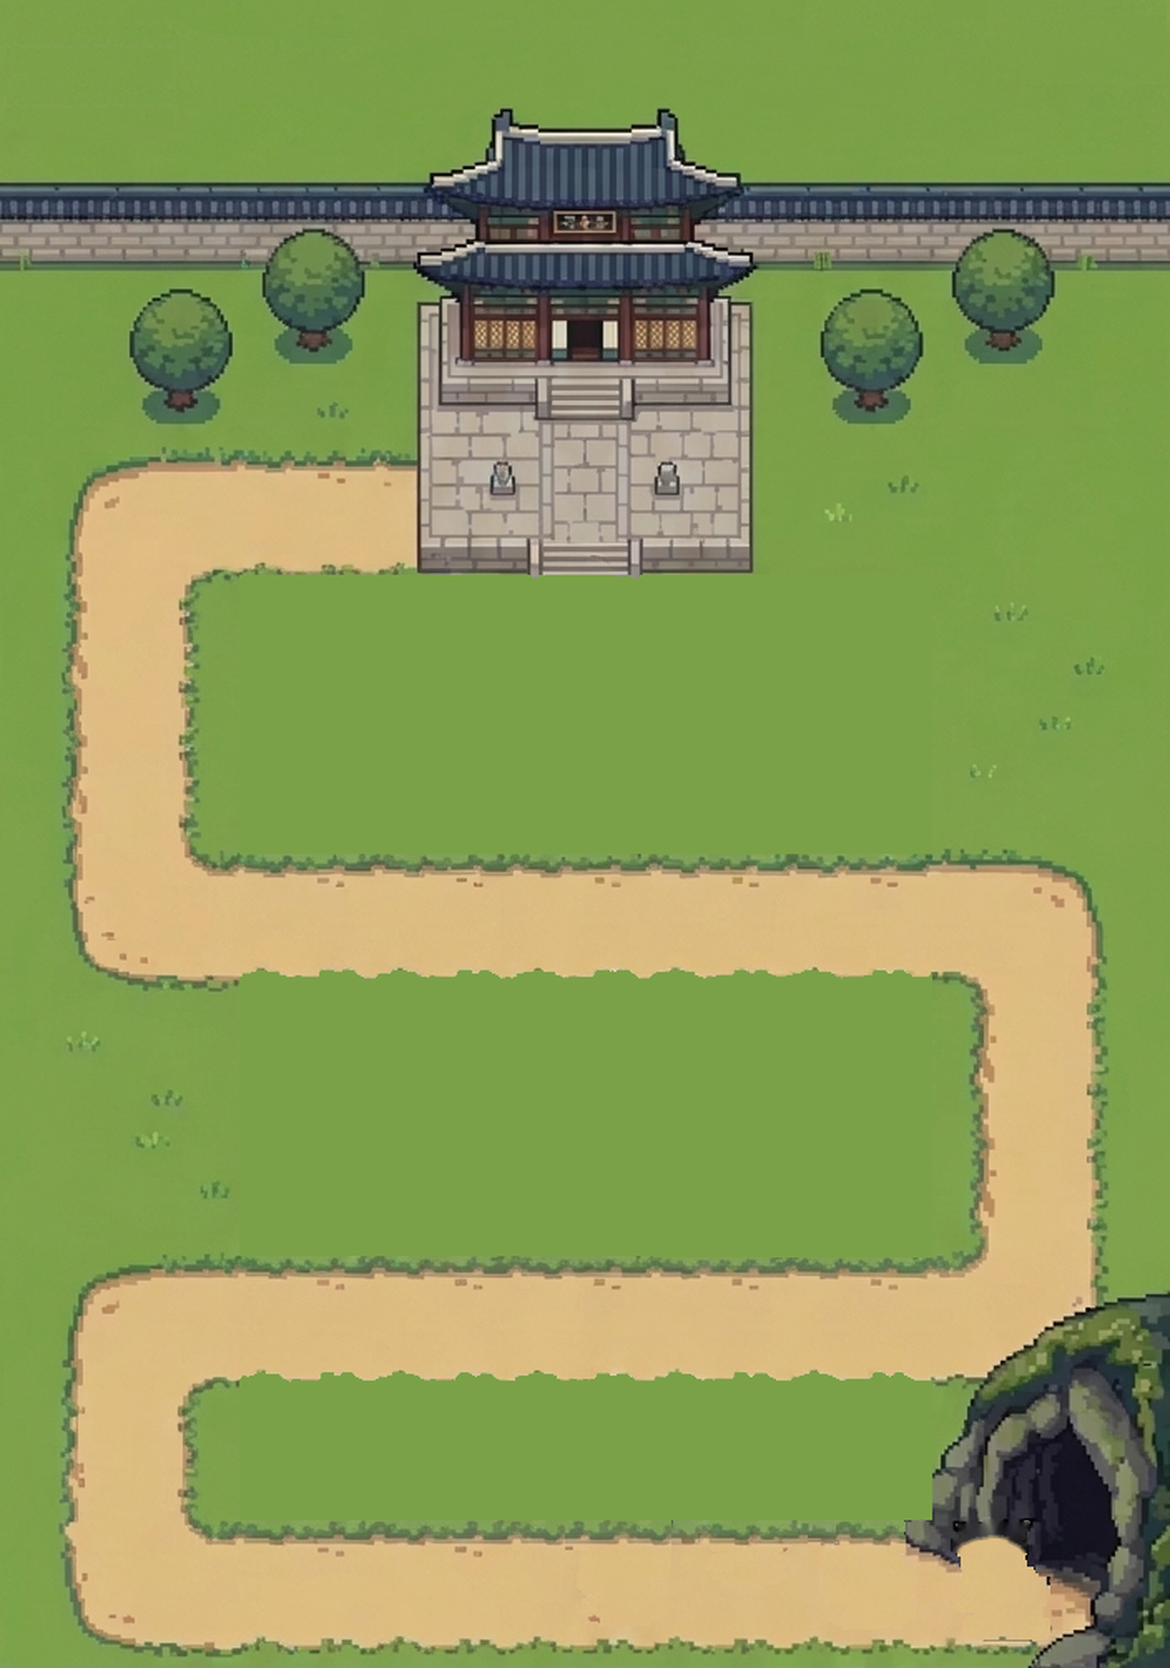
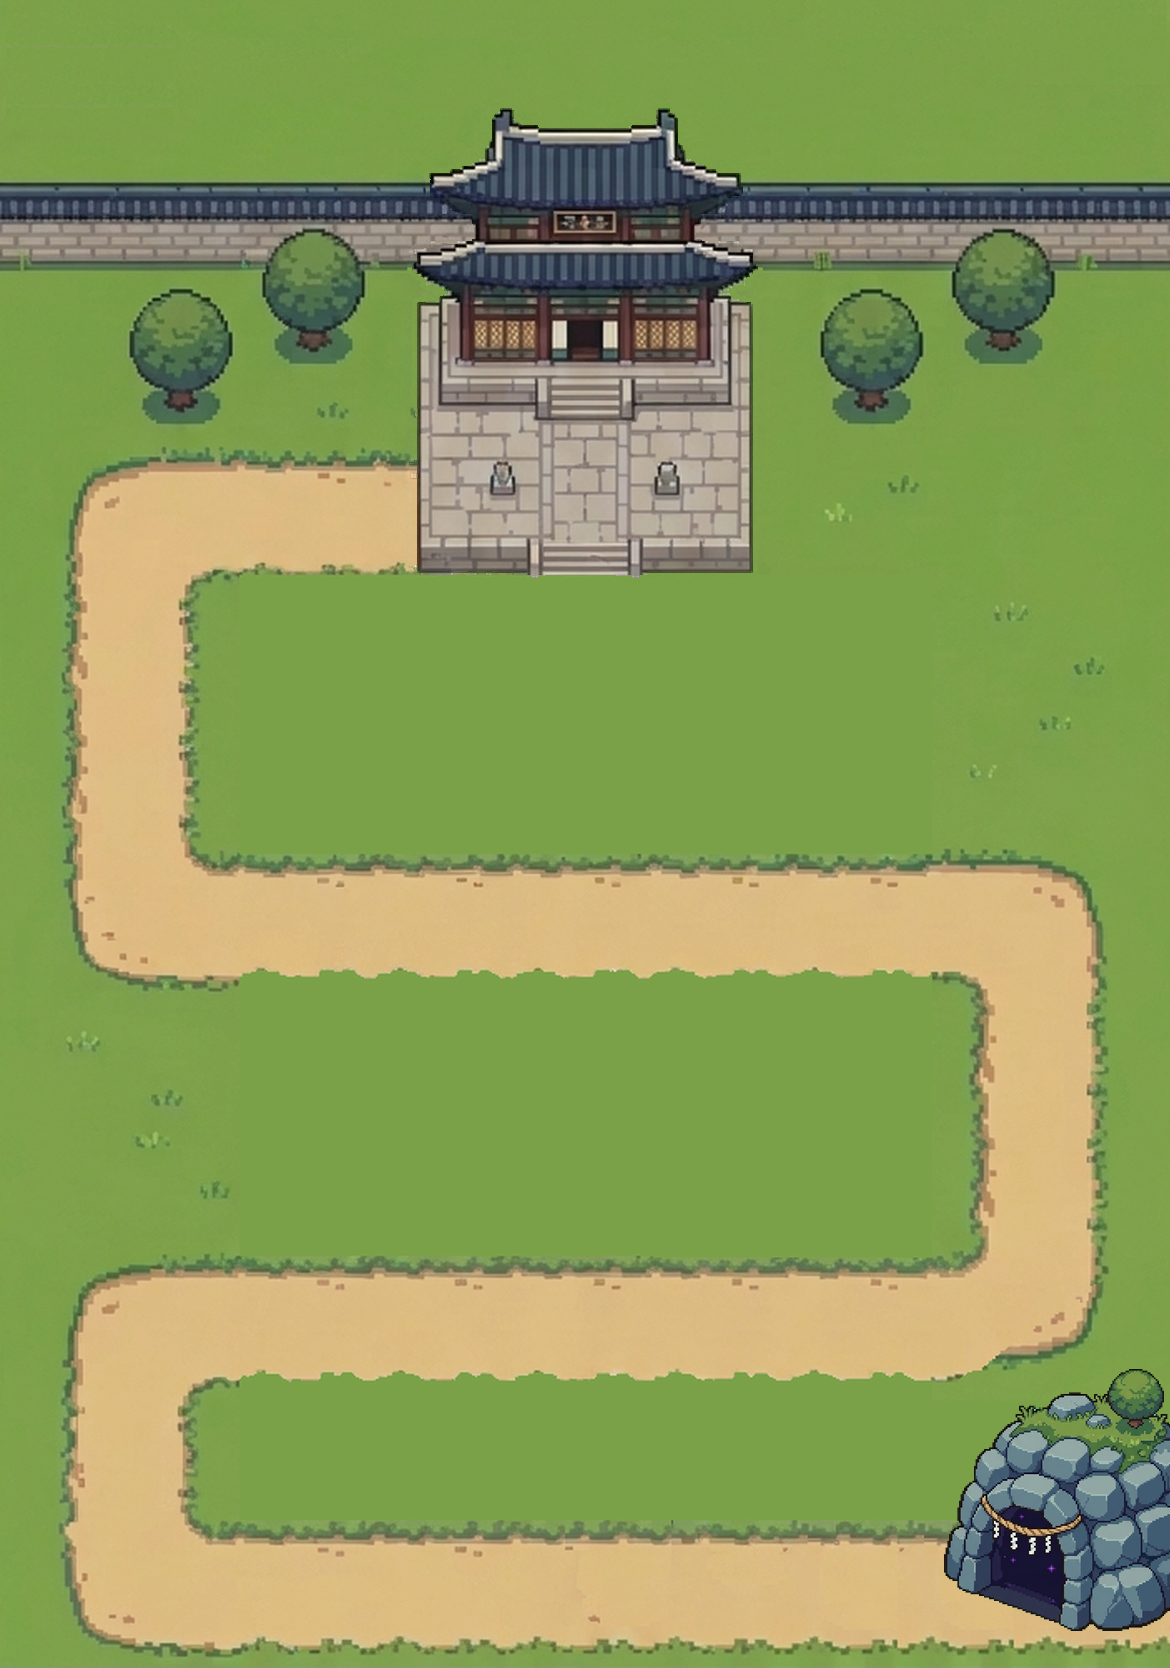
art: 도트 동굴을 세로 맵에 넣기 (정지 + 입구 반짝임 4프레임)
Claude-Session: https://claude.ai/code/session_01516Ff1ezD39vnqGwiHhyKB

Changed region(s): [[0.7692, 0.7482, 1.0, 1.0]]

diff --git a/art/tools/map/build_portrait_cave.py b/art/tools/map/build_portrait_cave.py
@@ -1,0 +1,174 @@
+"""도트 동굴 → 세로 맵에 넣기.
+
+입력: art/source/gemini/map-portrait/cave-pixel.png (제미나이, 하늘색 #00FFFF 배경, 1도트 = 4px)
+      assets/images/map/map-portrait-ground.png|webp, map-portrait-palace.*  (build_portrait_bg.py 결과)
+출력: assets/images/map/map-portrait-cave.png        동굴 정지 그림 (투명, @2x)
+      assets/images/map/map-portrait-cave-glow.png   입구 반짝임 4프레임 시트 + .json (TexturePacker Hash + anchor)
+      assets/images/map/map-portrait-bg.png          바닥 + 도트 동굴 + 궁을 다시 합친 맵
+      assets/data/map-portrait.json                  cave 항목(rect·foot·mouth) 갱신
+      art/preview/map-portrait/cave-*.png|gif       확인용
+build_portrait_bg.py 가 끝에서 이 스크립트를 부른다 (따로 실행해도 됨).
+"""
+import json
+import os
+
+import numpy as np
+from PIL import Image
+
+ROOT = os.path.abspath(os.path.join(os.path.dirname(__file__), '..', '..', '..'))
+SRC = os.path.join(ROOT, 'art/source/gemini/map-portrait/cave-pixel.png')
+IMG = os.path.join(ROOT, 'assets/images/map')
+DATA = os.path.join(ROOT, 'assets/data/map-portrait.json')
+PREV = os.path.join(ROOT, 'art/preview/map-portrait')
+
+DOT, SX, SY = 4, 0, 1          # 제미나이 그림의 도트 크기와 격자 시작점
+WIDTH_BOARD = 140              # 동굴 폭 (보드 좌표). 궁은 약 175
+MOUTH_X_BOARD = 512            # 입구 가운데 x
+MOUTH_FLOOR_BOARD = 812        # 입구 바닥 y (아래 길 띠 762~824 안쪽 아래)
+FRAMES, FRAME_MS = 4, 180
+
+
+def load_dots():
+    a = np.asarray(Image.open(SRC).convert('RGB')).astype(int)
+    h, w = a.shape[:2]
+    ny, nx = (h - SY) // DOT, (w - SX) // DOT
+    c = a[SY:SY + ny * DOT, SX:SX + nx * DOT].reshape(ny, DOT, nx, DOT, 3)
+    dots = np.median(c[:, 1:3, :, 1:3].transpose(0, 2, 1, 3, 4).reshape(ny, nx, 4, 3), axis=2).astype(np.uint8)
+    r, g, b = [dots[..., i].astype(int) for i in range(3)]
+    bg = (g > 225) & (b > 225) & (r < 110)   # 하늘색 배경 (바위 밝은 면과 겹치지 않게 좁게)
+    # 가장 큰 덩어리만 (오른쪽 아래 제미나이 표시 등 제거)
+    from scipy import ndimage
+    lab, n = ndimage.label(~bg)
+    sizes = ndimage.sum(np.ones_like(lab), lab, range(1, n + 1))
+    keep = lab == (1 + int(np.argmax(sizes)))
+    keep = ndimage.binary_fill_holes(keep)
+    # 가장자리에 남은 하늘색 섞인 도트 벗기기
+    for _ in range(2):
+        edge = keep & ~ndimage.binary_erosion(keep)
+        cyan = edge & (b > r + 70) & (g > r + 70) & (g > 140)
+        keep &= ~cyan
+    ys, xs = np.where(keep)
+    y0, y1, x0, x1 = ys.min(), ys.max() + 1, xs.min(), xs.max() + 1
+    return dots[y0:y1, x0:x1], keep[y0:y1, x0:x1]
+
+
+def find_mouth(dots, keep):
+    """입구(어두운 남보라 영역)의 바닥 가운데와 반짝이 위치."""
+    d = dots.astype(int)
+    lum = d.mean(2)
+    dark = keep & (lum < 60)
+    from scipy import ndimage
+    lab, n = ndimage.label(dark)
+    sizes = ndimage.sum(np.ones_like(lab), lab, range(1, n + 1))
+    mouth = lab == (1 + int(np.argmax(sizes)))
+    r, g, b = d[..., 0], d[..., 1], d[..., 2]
+    spark = keep & (b > 120) & (r > 90) & (g < 110) & (b > g + 50)
+    # 입구 안(입구를 조금 넓힌 상자 안)에 있는 것만
+    ys, xs = np.where(mouth)
+    box = (ys.min(), ys.max(), xs.min(), xs.max())
+    sy, sx = np.where(spark)
+    inside = (sy >= box[0]) & (sy <= box[1]) & (sx >= box[2]) & (sx <= box[3])
+    spark_pts = list(zip(sy[inside], sx[inside]))
+    mouth_fill = np.median(d[mouth & ~spark], axis=0).astype(np.uint8)
+    floor_y = ys.max() + 1
+    cx = (xs.min() + xs.max() + 1) / 2
+    return mouth, spark_pts, mouth_fill, (cx, floor_y), box
+
+
+def frame_dots(dots, spark_pts, fill, t):
+    """t번째 프레임: 반짝이마다 위상을 달리해 켜짐·반·꺼짐."""
+    out = dots.copy()
+    levels = [1.0, 0.55, 0.0, 0.55]
+    # 서로 붙은 반짝이 픽셀은 같은 위상
+    groups = {}
+    for (y, x) in spark_pts:
+        key = (y // 3, x // 3)
+        groups.setdefault(key, []).append((y, x))
+    for i, (_, pts) in enumerate(sorted(groups.items())):
+        k = levels[(t + i * 3) % len(levels)]
+        for (y, x) in pts:
+            out[y, x] = (dots[y, x] * k + fill * (1 - k)).astype(np.uint8)
+    return out
+
+
+def to_rgba(dots, keep, scale_px):
+    """도트 → @2x 픽셀 (부드럽게 줄임, 가장자리 배경색 번짐 없게)."""
+    rgb = dots.copy()
+    rgb[~keep] = (42, 33, 28)   # 외곽선 색으로 채워 두고 줄임
+    h, w = keep.shape
+    W = round(w * scale_px); H = round(h * scale_px)
+    big = Image.fromarray(rgb).resize((w * 8, h * 8), Image.NEAREST).resize((W, H), Image.LANCZOS)
+    al = Image.fromarray((keep * 255).astype(np.uint8)).resize((w * 8, h * 8), Image.NEAREST).resize((W, H), Image.BOX)
+    im = big.convert('RGBA')
+    im.putalpha(al)
+    return im
+
+
+def main():
+    dots, keep = load_dots()
+    mouth, spark_pts, fill, (mcx, mfloor), box = find_mouth(dots, keep)
+    h, w = keep.shape
+    px = WIDTH_BOARD * 2 / w                 # @2x 픽셀 / 도트
+    # 정지 그림
+    still = to_rgba(dots, keep, px)
+    still.save(os.path.join(IMG, 'map-portrait-cave.png'))
+    # 보드 위 위치: 입구 바닥 가운데를 (MOUTH_X, MOUTH_FLOOR)에
+    left = MOUTH_X_BOARD - mcx * px / 2
+    top = MOUTH_FLOOR_BOARD - mfloor * px / 2
+    W2, H2 = still.size
+    # 반짝임 시트
+    frames = [to_rgba(frame_dots(dots, spark_pts, fill, t), keep, px) for t in range(FRAMES)]
+    sheet = Image.new('RGBA', (W2 * FRAMES, H2))
+    meta_frames = {}
+    foot = (round(mcx * px / W2, 4), round(mfloor * px / H2, 4))
+    for t, f in enumerate(frames):
+        sheet.paste(f, (t * W2, 0))
+        meta_frames[f'map-portrait-cave-glow-{t}'] = {
+            'frame': {'x': t * W2, 'y': 0, 'w': W2, 'h': H2}, 'duration': FRAME_MS,
+            'anchor': {'x': foot[0], 'y': foot[1]}}
+    sheet.save(os.path.join(IMG, 'map-portrait-cave-glow.png'))
+    with open(os.path.join(IMG, 'map-portrait-cave-glow.json'), 'w', encoding='utf-8') as f:
+        json.dump({'frames': meta_frames, 'meta': {'image': 'map-portrait-cave-glow.png', 'size': {'w': W2 * FRAMES, 'h': H2},
+                   'scale': '2', 'note': 'anchor = 입구 바닥 가운데. 보드 좌표 cave.mouth 에 그린다.'}}, f, ensure_ascii=False, indent=1)
+
+    # 맵 다시 합치기: 바닥 → 동굴 → 궁
+    def open_any(name):
+        for ext in ('png', 'webp'):
+            p = os.path.join(IMG, f'{name}.{ext}')
+            if os.path.exists(p): return Image.open(p).convert('RGBA')
+    ground = open_any('map-portrait-ground')
+    palace = open_any('map-portrait-palace')
+    with open(DATA, encoding='utf-8') as f:
+        data = json.load(f)
+    pr = data['palace']['rect']
+    bg = ground.copy()
+    bg.alpha_composite(still, (round(left * 2), round(top * 2)))
+    bg.alpha_composite(palace, (round(pr['x'] * 2), round(pr['y'] * 2)))
+    bg.convert('RGB').save(os.path.join(IMG, 'map-portrait-bg.png'))
+
+    data['cave'] = {
+        'image': 'map/map-portrait-cave.webp', 'glow': 'map/map-portrait-cave-glow.json',
+        'rect': {'x': round(left, 1), 'y': round(top, 1), 'w': round(W2 / 2, 1), 'h': round(H2 / 2, 1)},
+        'mouth': [MOUTH_X_BOARD, MOUTH_FLOOR_BOARD],
+        'mouth_width': round((box[3] - box[2] + 1) * px / 2, 1),
+        'note': '도트 동굴(cave-pixel.png). 오른쪽 일부는 화면 밖. 몬스터 출발점을 mouth 근처로 옮기면 입구에서 나오는 것처럼 보인다.'}
+    with open(DATA, 'w', encoding='utf-8') as f:
+        json.dump(data, f, ensure_ascii=False, indent=1)
+
+    # 확인용
+    os.makedirs(PREV, exist_ok=True)
+    bg.convert('RGB').save(os.path.join(PREV, 'bg.png'))
+    still.save(os.path.join(PREV, 'cave.png'))
+    z = 3
+    crop = (round(left * 2) - 60, round(top * 2) - 60, 1170, 1668)
+    gif = []
+    for f in frames:
+        b = ground.copy(); b.alpha_composite(f, (round(left * 2), round(top * 2)))
+        c = b.crop(crop)
+        gif.append(c.resize((c.width * z // 2, c.height * z // 2), Image.NEAREST).convert('P', palette=Image.ADAPTIVE))
+    gif[0].save(os.path.join(PREV, 'cave-glow.gif'), save_all=True, append_images=gif[1:], duration=FRAME_MS, loop=0)
+    print('cave', still.size, 'rect', data['cave']['rect'], 'mouth w', data['cave']['mouth_width'], 'sparks', len(spark_pts))
+
+
+if __name__ == '__main__':
+    main()

diff --git a/art/tools/map/build_portrait_bg.py b/art/tools/map/build_portrait_bg.py
@@ -5,7 +5,8 @@
   assets/images/map/map-portrait-bg.png        정보줄·배치 칸을 지운 맵 (궁·동굴·나무 포함)
   assets/images/map/map-portrait-ground.png    궁·동굴까지 뺀 바닥 (궁 자리 성벽·길, 동굴 자리 길을 이어 그림)
   assets/images/map/map-portrait-palace.png    궁만 (투명, 맵과 같은 캔버스에서 잘라 낸 최소 영역)
-  assets/images/map/map-portrait-cave.png      동굴만 (투명)
+  assets/images/map/map-portrait-cave.png      동굴만 (투명) — 도트 동굴(cave-pixel.png)이 있으면 build_portrait_cave.py가 그것으로 바꾸고
+                                               bg도 바닥+도트 동굴+궁으로 다시 합친다. 시안 동굴은 art/preview/map-portrait/cave-mockup.png
   assets/data/map-portrait.json                궁·동굴 그림 위치(보드 좌표), 배치 칸 자리
   art/preview/map-portrait/*.png               확인용 (위 4장의 PNG 사본, 다시 합친 그림, 마스크)
 실행: python3 art/tools/map/build_portrait_bg.py && python3 art/tools/web/to_webp.py (저장소 루트에서)
@@ -162,6 +163,7 @@ def cave_ground(clean, mask):
     # 동굴에 가린 오른쪽 길 모퉁이: 같은 길의 위 모퉁이(y 536~620)를 위아래로 뒤집어 붙임
     g[800:886, 560:704] = clean[536:622, 560:704][::-1]
     keep = grow(mask, 4) == 0
+    keep[875:, 540:] = False       # 아래 길 띠 오른쪽은 통째로 이어 그린 길 (예전 동굴 찌꺼기 제거)
     g[keep] = clean[keep]
     return g
 
@@ -241,9 +243,15 @@ def main():
     }
     with open(os.path.join(OUT_DATA, 'map-portrait.json'), 'w', encoding='utf-8') as f:
         json.dump(data, f, ensure_ascii=False, indent=1)
-    for n in ('bg', 'ground', 'palace', 'cave'):
+    for n in ('bg', 'ground', 'palace'):
         Image.open(os.path.join(OUT_IMG, f'map-portrait-{n}.png')).save(os.path.join(OUT_PREV, f'{n}.png'))
     print(json.dumps(data, ensure_ascii=False))
+
+    # 도트 동굴이 있으면 시안 동굴 대신 그것으로 바꿔 맵을 다시 합친다
+    if os.path.exists(os.path.join(ROOT, 'art/source/gemini/map-portrait/cave-pixel.png')):
+        os.replace(os.path.join(OUT_IMG, 'map-portrait-cave.png'), os.path.join(OUT_PREV, 'cave-mockup.png'))
+        import build_portrait_cave
+        build_portrait_cave.main()
 
 
 if __name__ == '__main__':

diff --git a/art/README.md b/art/README.md
@@ -10,7 +10,7 @@
 | 경로 | 내용 |
 |---|---|
 | `art/source/gemini/` | 제미나이 원본 (맵 4장 + 배치 가이드, 창병 장수 기준 그림·파츠 시트와 잘라 낸 파츠, `monsters/` 몬스터 시안·표정·조각) |
-| `art/tools/map/` | `build_portrait_bg.py` — 도트 세로 화면 시안에서 정보줄·배치 칸을 지운 세로 맵 배경, 궁·동굴 분리 / `cut_portrait_ui.py` — 같은 시안의 정보줄·배치 칸·트레이·카드·탭·뽑기 버튼 조각(`art/source/gemini/map-portrait/cut/`) / `build_map.py` — 배경 정리·길 중심선 추출, 장식·건물·동굴 추출과 배치 / `make_portrait_guide.py` — 세로 맵 레이아웃 가이드·화면 영역도 |
+| `art/tools/map/` | `build_portrait_bg.py` — 도트 세로 화면 시안에서 정보줄·배치 칸을 지운 세로 맵 배경, 궁·동굴 분리 / `build_portrait_cave.py` — 도트 동굴을 맵에 넣고 입구 반짝임 시트 / `cut_portrait_ui.py` — 같은 시안의 정보줄·배치 칸·트레이·카드·탭·뽑기 버튼 조각(`art/source/gemini/map-portrait/cut/`) / `build_map.py` — 배경 정리·길 중심선 추출, 장식·건물·동굴 추출과 배치 / `make_portrait_guide.py` — 세로 맵 레이아웃 가이드·화면 영역도 |
 | `art/tools/monster/` | `build_monsters.py`(몬스터 시안 → 다리·꼬리 리깅, 표정 교체, 걷기·피격·쓰러짐·보스 등장 시트), `preview_road.py`(길 위 걷기 GIF), `build_aura.py`(좀비가 된 왕 기운) |
 | `art/tools/rig/` | `extract.py`(배경 제거·파츠 분리), `rig_spear.py`(창병 장수 리깅·애니메이션), `preview.py`(미리보기) |
 | `art/docs/` | 제미나이 프롬프트(캐릭터·맵), 진행 현황, 이전 프롬프트 |
@@ -28,7 +28,7 @@
 
 ## 세로형으로 바뀌며 안 쓰게 된 것
 - `assets/images/map/map-bg.webp`(가로 배경), `map-bld-barracks-*-enter`(막사 들썩임), `assets/data/map-path.json`(가로 경로). 지우지는 않았다.
-- **도트 세로 맵 배경(2026-10-29):** `map/map-portrait-bg.webp`(1170×1668, 궁·동굴·나무 포함), `map-portrait-ground.webp`(궁·동굴 뺀 바닥) + `map-portrait-palace.webp`·`map-portrait-cave.webp`(투명). 위치·배치 칸 좌표는 `assets/data/map-portrait.json` — 배치 칸 25개 자리는 지금 코드(`MapData`)와 같다. 아직 게임 코드에 연결하지 않았다. 동굴은 궁과 그림체가 달라 도트로 다시 뽑는다 → `art/docs/gemini-cave-pixel-prompt.md`.
+- **도트 세로 맵 배경(2026-10-29):** `map/map-portrait-bg.webp`(1170×1668, 궁·동굴·나무 포함), `map-portrait-ground.webp`(궁·동굴 뺀 바닥) + `map-portrait-palace.webp`·`map-portrait-cave.webp`(투명). 위치·배치 칸 좌표는 `assets/data/map-portrait.json` — 배치 칸 25개 자리는 지금 코드(`MapData`)와 같다. 아직 게임 코드에 연결하지 않았다. 동굴은 궁과 그림체가 달라 도트로 다시 뽑아(`cave-pixel.png`, 프롬프트 `art/docs/gemini-cave-pixel-prompt.md`) `build_portrait_cave.py`로 바꿔 넣었다 — 정지 `map-portrait-cave.webp`, 입구 반짝임 4프레임 `map-portrait-cave-glow.webp/json`, 입구 자리 `map-portrait.json`의 `cave.mouth`.
 - 지금 세로 맵의 풀밭은 `map-grass.webp`(가로 배경의 풀밭을 잘라 이어 붙임), 길·배치 칸은 코드로 그린다 → `portrait-redesign.md` 1·2번으로 교체 예정.
 
 ## 새 소스 추가 흐름
